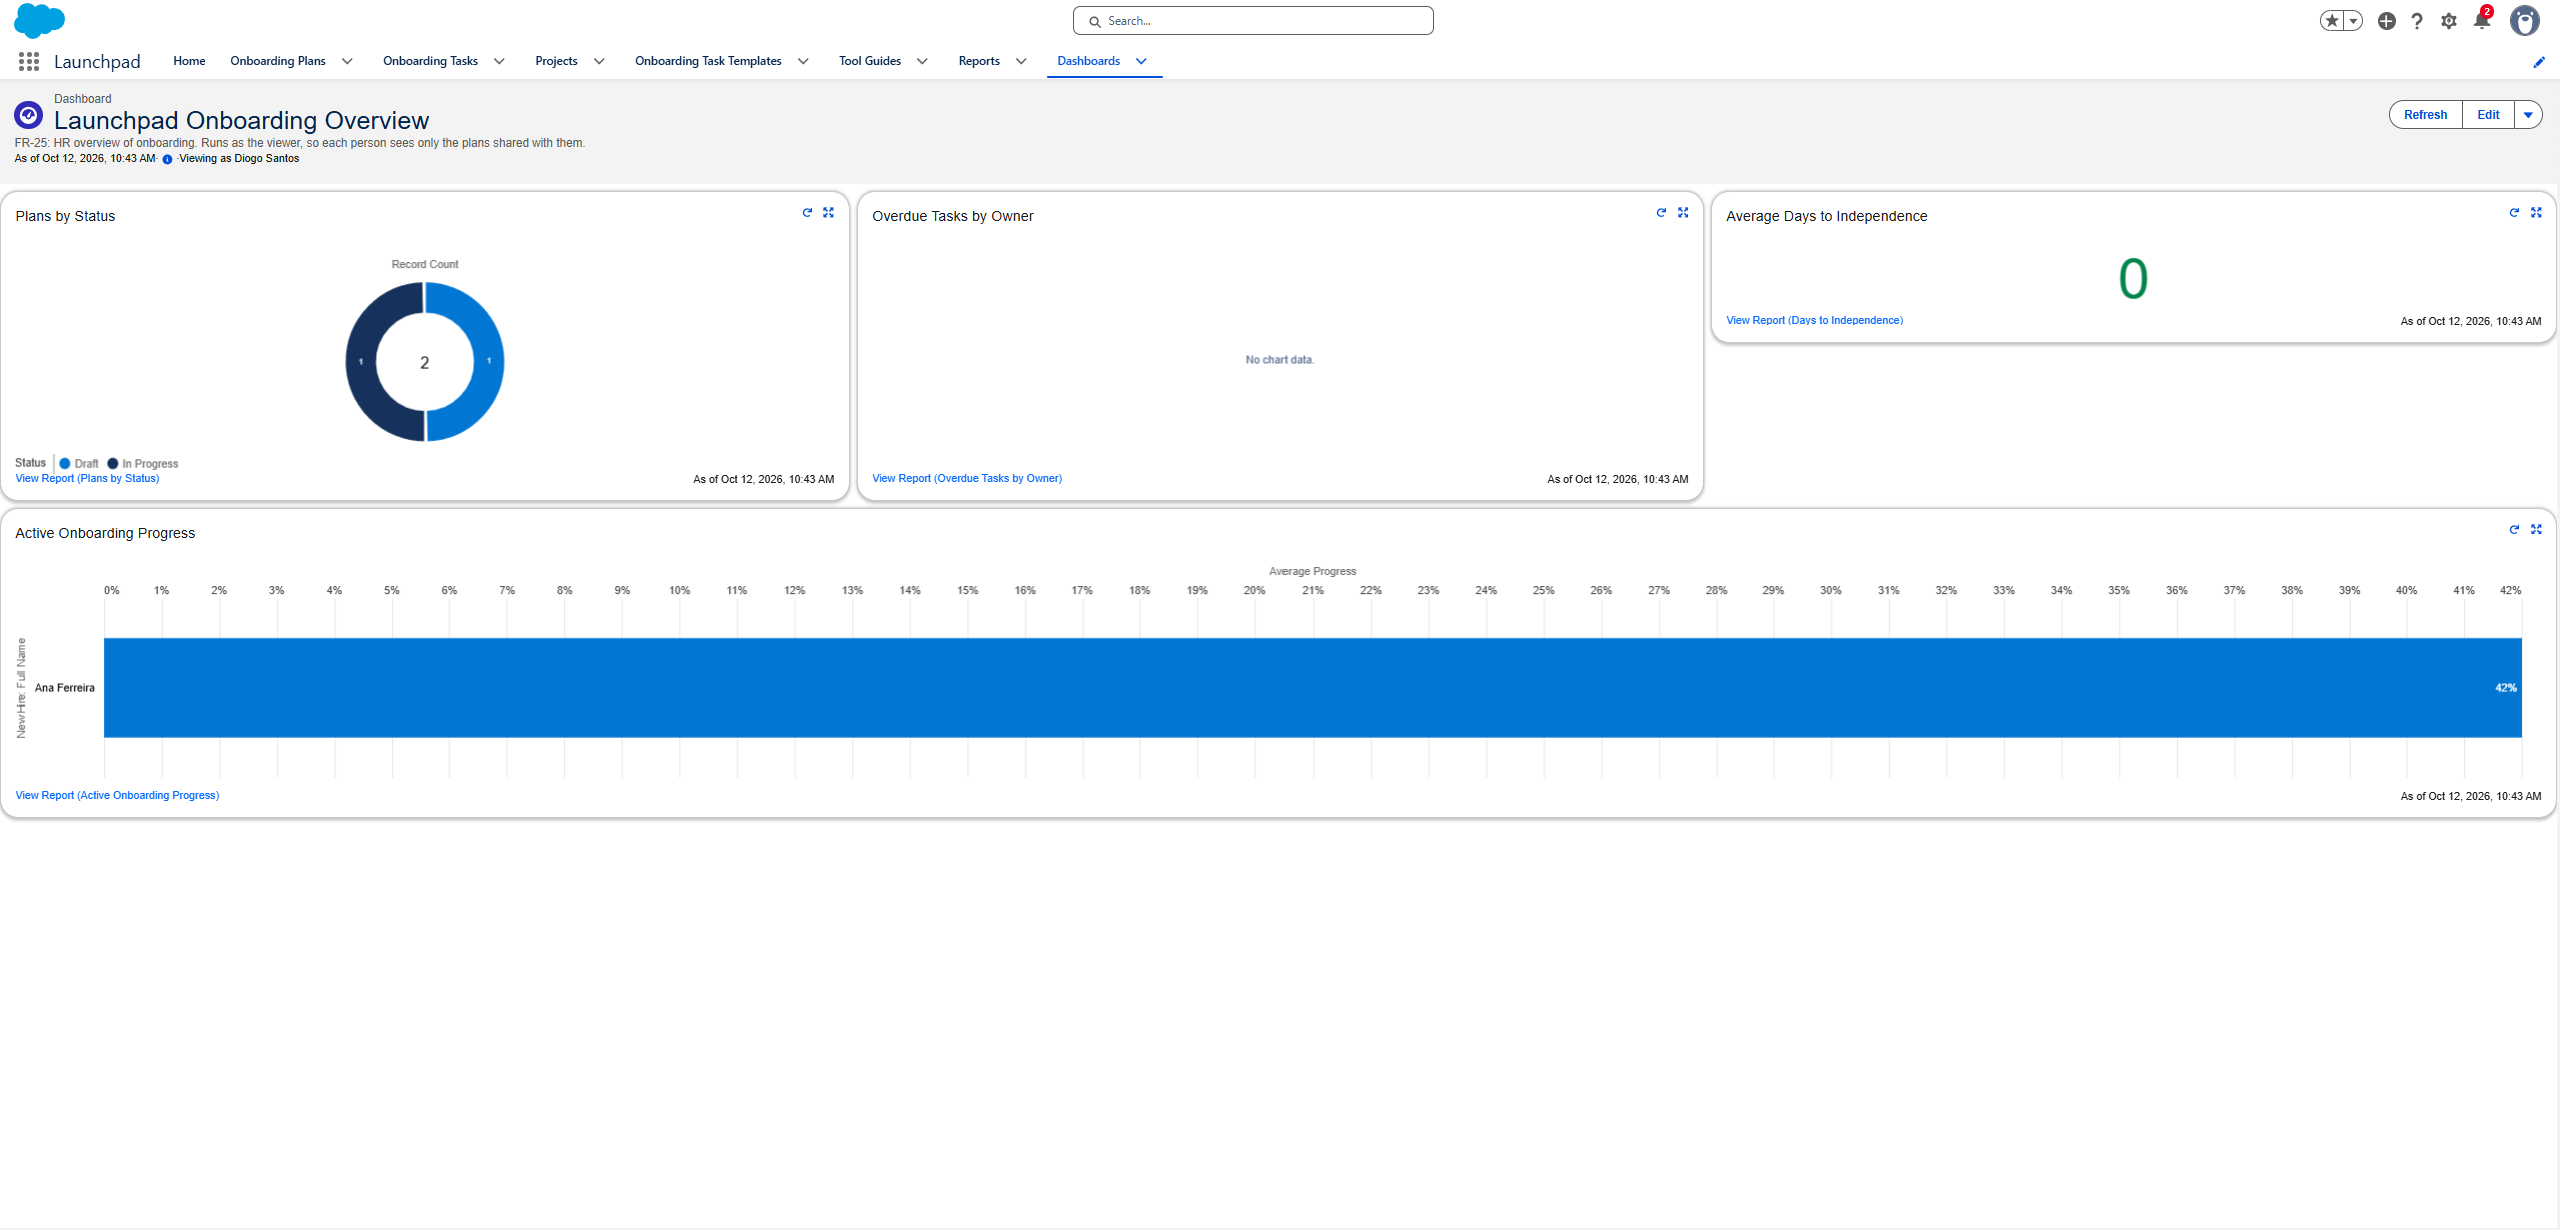
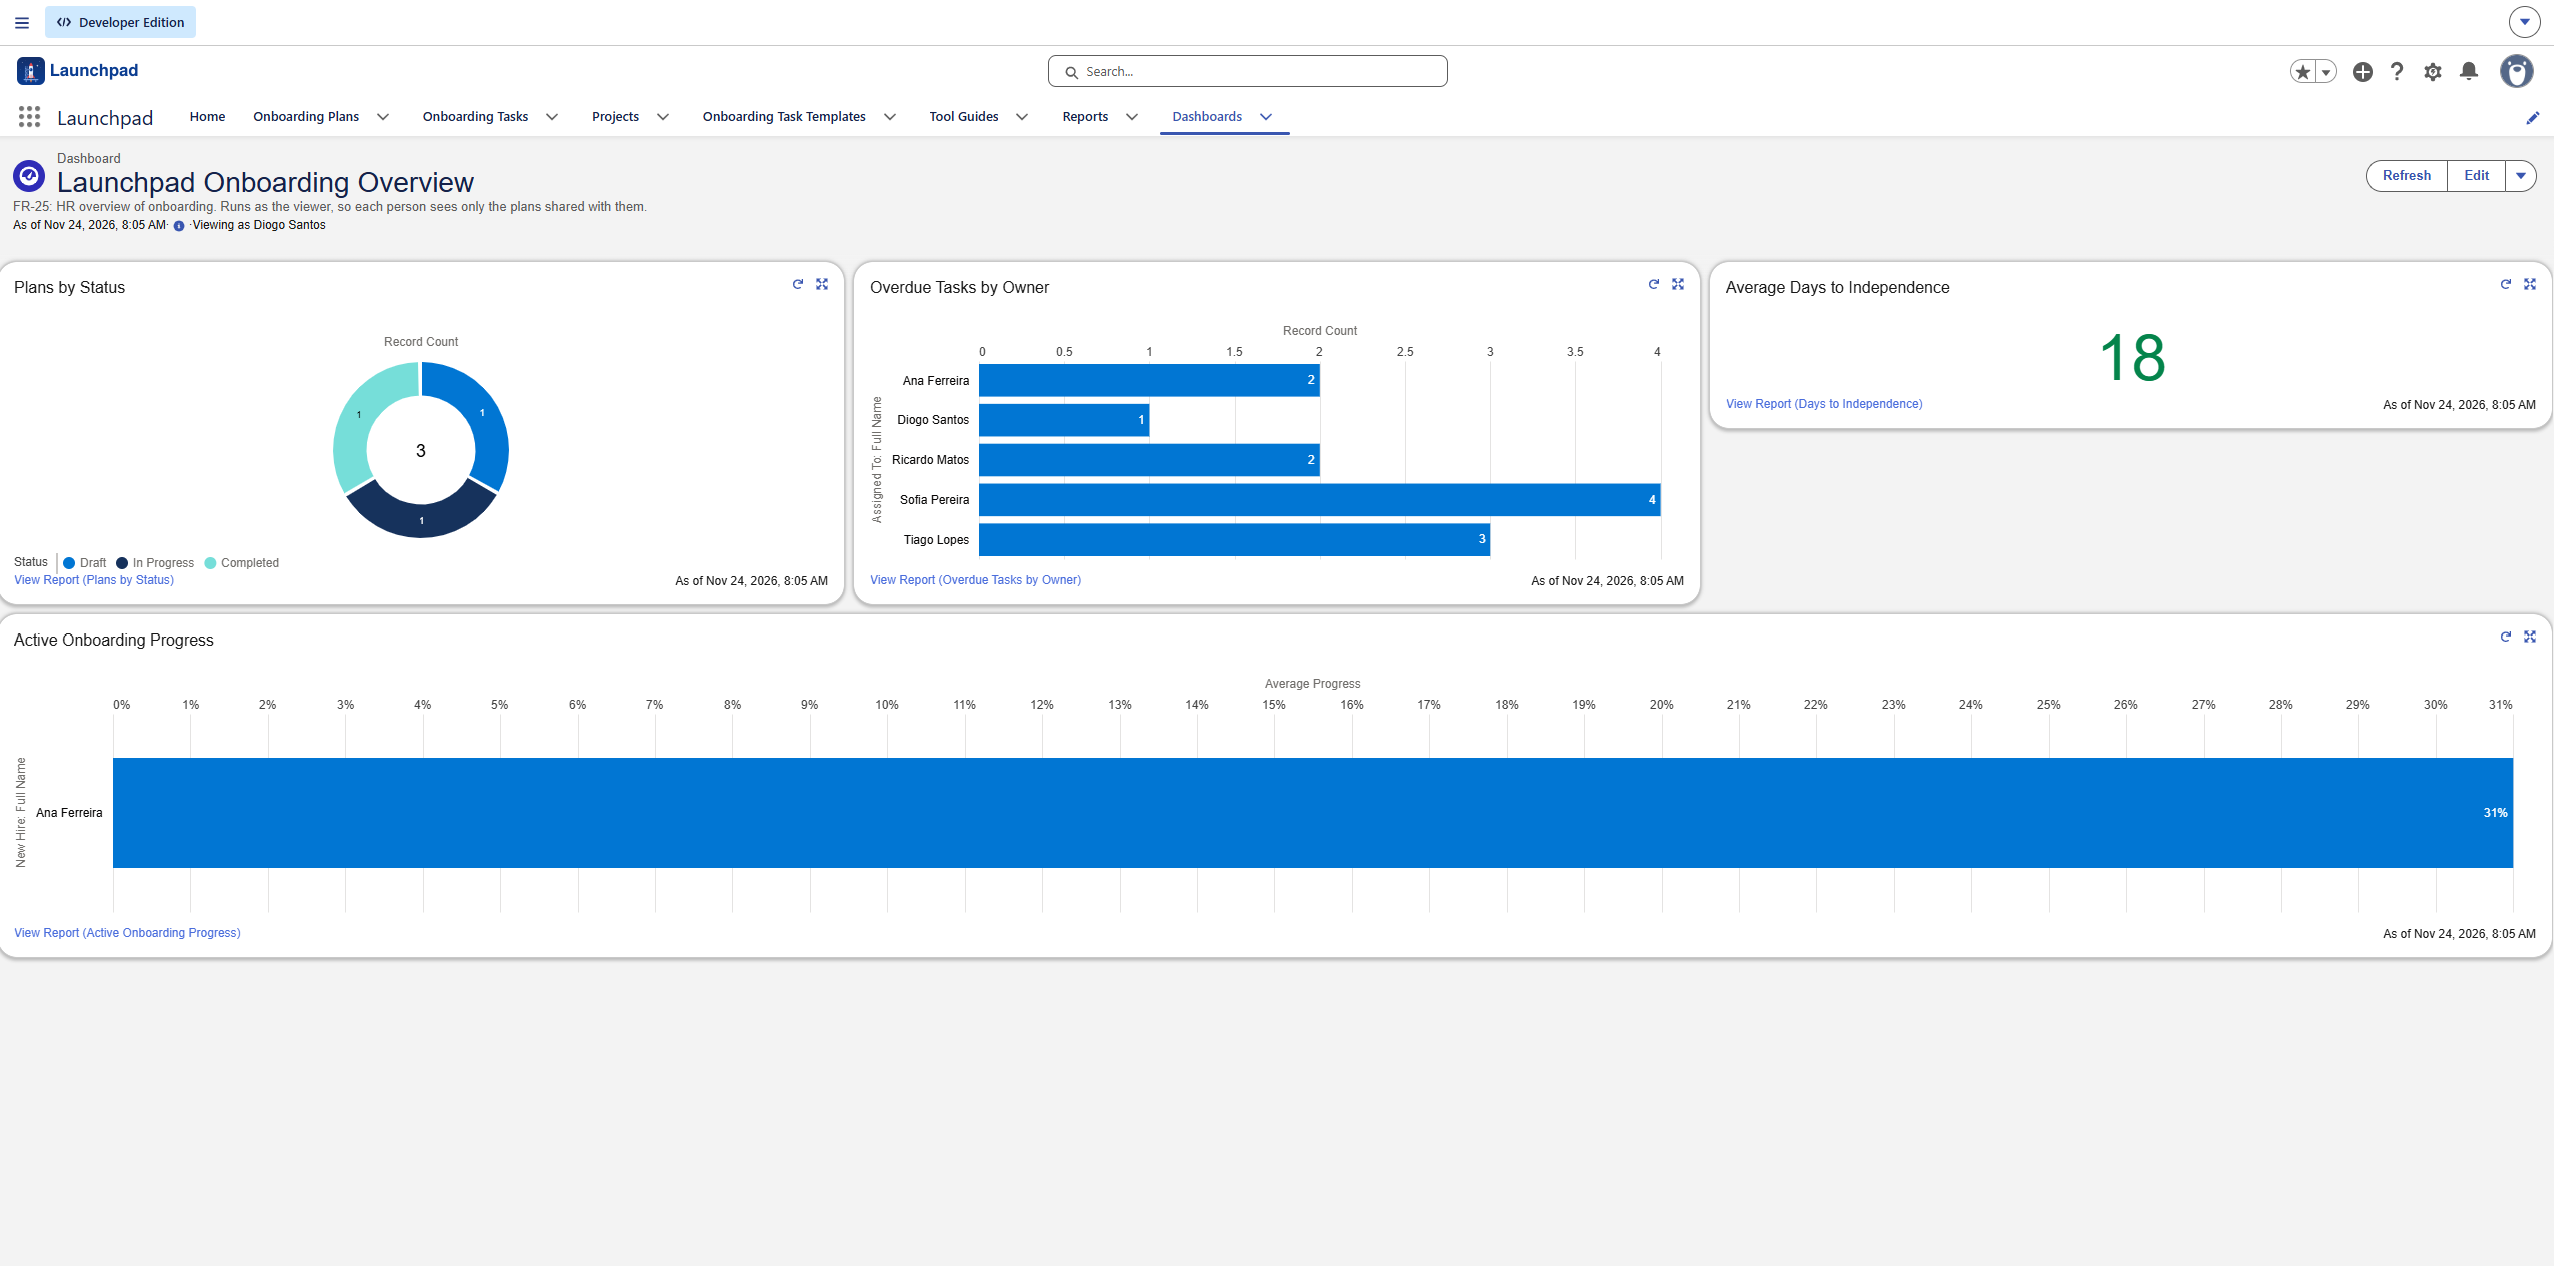
Demo history for the HR dashboard; retake dashboard and Command Centre screenshots (#14)

diff --git a/docs/sprints/sprint-01.md b/docs/sprints/sprint-01.md
@@ -28,7 +28,7 @@ Prove that Agentforce works in the Developer Edition org, and give the agent the
 
 | Sprint | Items | Points |
 | --- | --- | --- |
-| 2 · 8 – 21 Dec | [#5](https://github.com/DiogoS7/Launchpad/issues/5) Build the agent, [#7](https://github.com/DiogoS7/Launchpad/issues/7) Run the acceptance tests | 11 |
+| 2 · 8 – 21 Dec | [#5](https://github.com/DiogoS7/Launchpad/issues/5) Build the agent, [#7](https://github.com/DiogoS7/Launchpad/issues/7) Run the acceptance tests, [#14](https://github.com/DiogoS7/Launchpad/issues/14) Home page charts and demo data for the HR dashboard | 13 |
 | 3 · 22 Dec – 4 Jan | [#8](https://github.com/DiogoS7/Launchpad/issues/8) Store the agent in the repo and CI, [#9](https://github.com/DiogoS7/Launchpad/issues/9) Ship v2 | 8 |
 
 ## Sprint review
